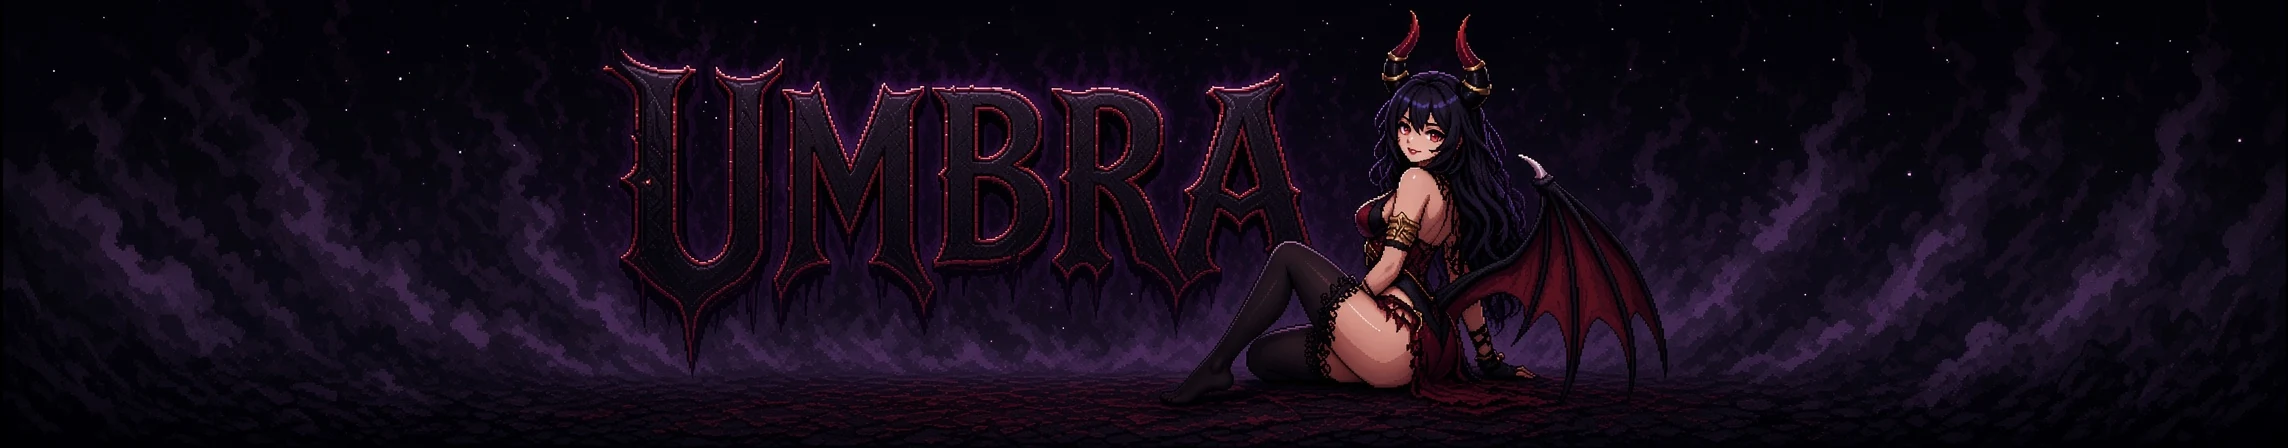
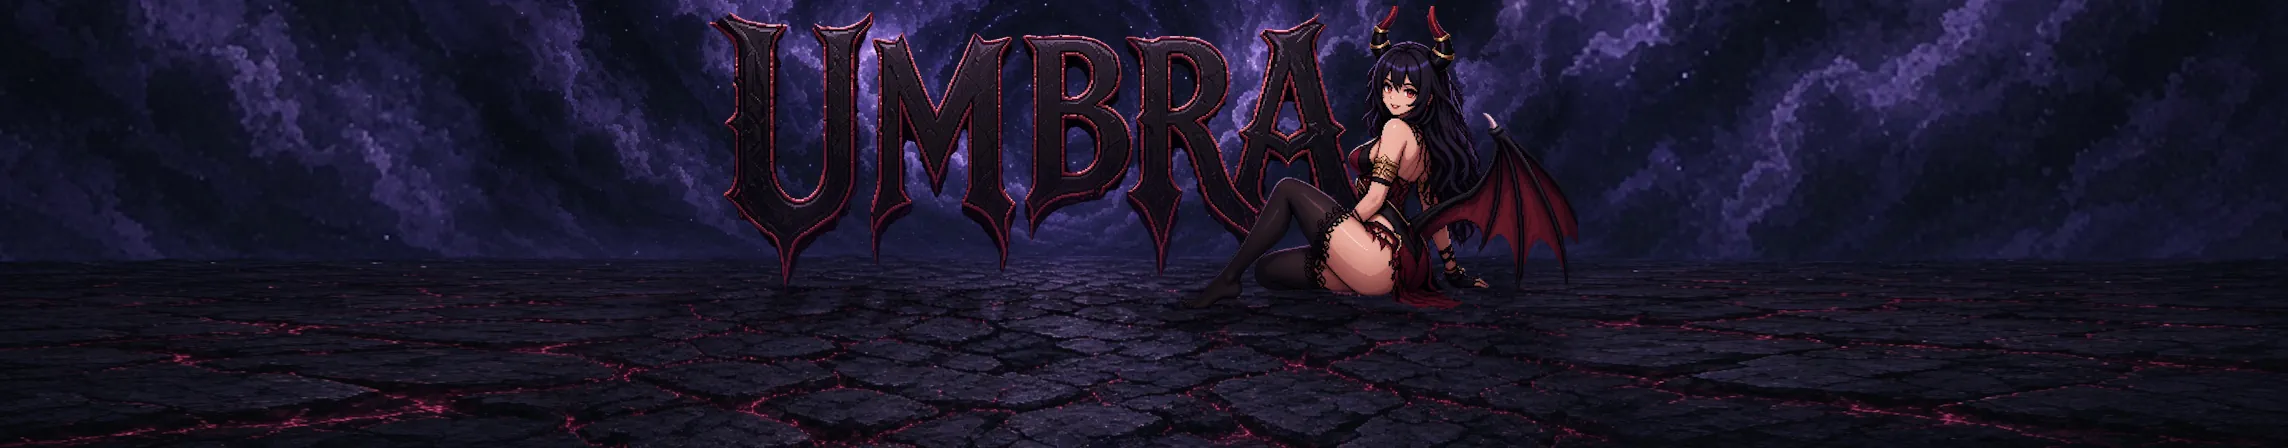
Redesign app header and add release workflow

diff --git a/src/renderer/src/components/Header.tsx b/src/renderer/src/components/Header.tsx
@@ -1,13 +1,44 @@
-import { APP_VERSION } from '@shared/constants'
 import { useLibraryStore } from '@renderer/store/libraryStore'
 import { useSettingsStore } from '@renderer/store/settingsStore'
 import { useUpdateStore } from '@renderer/store/updateStore'
 import { useUiStore } from '@renderer/store/uiStore'
 import bannerUrl from '@renderer/assets/banner.webp'
 
+/**
+ * The strip height tracks the window width instead of being a fixed pixel value, so the
+ * banner's crop stays proportionally the same at every window size. The art is 2288x448
+ * (~5.1:1), so `object-cover` always renders it at ~19.6% of the container width; a fixed
+ * height therefore squeezes the art into an ever-thinner slice as the window widens (the
+ * old fixed 200px strip had this bug too). Taking a fixed *fraction* of the width instead
+ * keeps a constant ~84% of the art in frame.
+ *
+ * The banner is authored so everything that matters lives in its top ~66%: horn tips at
+ * ~1%, wordmark letterforms ending ~40% with drips to ~52%, and the character bottoming
+ * out at ~66%. Below that is deliberately empty cracked ground — that band is the lane the
+ * control row sits on, so covering it costs nothing.
+ *
+ * At 16.4vw the wordmark clears the 46px control row with room to spare at the default
+ * 1100px width (drips land ~107px down, the row starts at 134px), and the character is
+ * fully in frame. The floor for merely keeping the wordmark clear is ~14.5vw, so there is
+ * headroom to go shorter if the header ever needs to shrink further. Clamped at both ends
+ * so it still fits the 950px minimum window width and stops growing on wide monitors.
+ */
+const STRIP_HEIGHT = 'clamp(164px, 16.4vw, 232px)'
+
+/**
+ * Anchored to the top because the banner's only expendable region is the empty ground at
+ * its bottom: cropping from anywhere else clips the horn tips, which sit ~1% down. Every
+ * pixel `object-cover` discards should come off the bottom.
+ */
+const BANNER_FOCUS = 'center top'
+
+/** Shared chrome for the controls floating on the art: readable on their own, but glassy
+ *  enough that the artwork still shows through instead of sitting behind a solid bar. */
+const FLOATING =
+  'border border-white/10 bg-bg-input/80 shadow-lg shadow-black/40 backdrop-blur-md'
+
 export default function Header(): React.JSX.Element {
-  const { dbVersion, dbUpdated, search, setSearch, viewMode, setViewMode, matches } =
-    useLibraryStore()
+  const { search, setSearch, viewMode, setViewMode } = useLibraryStore()
   const { settings, openSettings, setViewMode: persistViewMode } = useSettingsStore()
   const updateResult = useUpdateStore((s) => s.result)
   const openAbout = useUiStore((s) => s.openAbout)
@@ -18,30 +49,35 @@ export default function Header(): React.JSX.Element {
   }
 
   return (
-    <header className="border-b border-bg-card bg-bg-dark">
-      {/* Banner artwork carries the wordmark, so the app title is screen-reader only here.
-          The artwork is authored at ~5:1 to match this strip's aspect at typical window
-          widths, so object-cover crops only a few pixels off the sides and the logo and
-          character always stay fully visible. Controls sit below the art rather than on
-          top of it — a scrim dark enough to keep overlaid text legible would swallow the
-          letters. */}
-      <div className="relative h-[200px] shrink-0 overflow-hidden bg-[#06050b]">
-        <h1 className="sr-only">Umbra Game Patcher</h1>
-        <img
-          src={bannerUrl}
-          alt="Umbra"
-          className="h-full w-full object-cover"
-          style={{ objectPosition: 'center' }}
-        />
-        {/* Short fade so the art meets the controls instead of ending on a hard edge. */}
-        <div className="pointer-events-none absolute inset-x-0 bottom-0 h-10 bg-gradient-to-t from-bg-dark to-transparent" />
-      </div>
+    /* The banner art *is* the header: the controls float over its lower band on a gradient
+       scrim rather than sitting in a panel below it, which keeps the whole header to the
+       height of the artwork. Database/version details moved into the About dialog — at the
+       950px minimum window width they could not share a row with the search field. */
+    <header
+      className="relative shrink-0 overflow-hidden border-b border-bg-card/60 bg-[#06050b]"
+      style={{ height: STRIP_HEIGHT }}
+    >
+      {/* Banner artwork carries the wordmark, so the app title is screen-reader only. */}
+      <h1 className="sr-only">Umbra Game Patcher</h1>
+      <img
+        src={bannerUrl}
+        alt="Umbra"
+        className="absolute inset-0 h-full w-full object-cover"
+        style={{ objectPosition: BANNER_FOCUS }}
+      />
 
-      <div className="flex items-center justify-between gap-3 px-5 pt-0">
-        <div className="flex items-baseline gap-3">
-          <span className="text-xs text-text-dim">{APP_VERSION}</span>
+      {/* Scrim under the control row. Black rather than the old bg-dark blue so it reads as
+          the art darkening into shadow instead of a panel creeping back in. Kept light and
+          long rather than short and opaque: the controls carry their own backgrounds, so
+          this only has to seat them — a heavier scrim cuts the wordmark mid-stroke. */}
+      <div className="pointer-events-none absolute inset-x-0 bottom-0 h-[92px] bg-gradient-to-t from-black/90 via-black/40 to-transparent" />
+
+      {/* Alerts ride the upper-left corner, which is empty smoke in the artwork. Both are
+          conditional, so the corner is usually bare. */}
+      {(settings.betaAutoInstall || updateResult?.available) && (
+        <div className="absolute left-5 top-4 flex items-center gap-2">
           {settings.betaAutoInstall && (
-            <span className="rounded-full bg-danger/20 px-2 py-0.5 text-[10px] font-semibold uppercase tracking-wide text-danger">
+            <span className="rounded-full border border-danger/50 bg-black/55 px-2 py-0.5 text-[10px] font-semibold uppercase tracking-wide text-danger-hover backdrop-blur-sm">
               Beta Auto-Install on
             </span>
           )}
@@ -50,50 +86,32 @@ export default function Header(): React.JSX.Element {
               type="button"
               onClick={() => void window.patcher.openExternal(updateResult.url)}
               title="Open the release on GitHub"
-              className="rounded-full bg-accent-dim/30 px-2 py-0.5 text-[10px] font-semibold text-accent hover:bg-accent-dim/50"
+              className="rounded-full border border-accent/50 bg-black/55 px-2 py-0.5 text-[10px] font-semibold text-accent backdrop-blur-sm hover:bg-accent-dim/60 hover:text-text-bright"
             >
               🔔 v{updateResult.latestVersion} available
             </button>
           )}
         </div>
-        <div className="flex items-center gap-3">
-          <span className="text-xs text-text-dim">
-            Database generated {dbVersion} · {dbUpdated ? 'Updated' : 'Up to date'} ·{' '}
-            {matches.length} game{matches.length === 1 ? '' : 's'} with patches
-          </span>
-          <button
-            type="button"
-            onClick={openAbout}
-            title="About"
-            className="rounded-md border border-bg-card px-2 py-1 text-sm text-text-dim hover:bg-bg-card hover:text-text-bright"
-          >
-            ℹ
-          </button>
-          <button
-            type="button"
-            onClick={openSettings}
-            title="Settings"
-            className="rounded-md border border-bg-card px-2 py-1 text-sm text-text-dim hover:bg-bg-card hover:text-text-bright"
-          >
-            ⚙
-          </button>
-        </div>
-      </div>
+      )}
 
-      <div className="flex items-center gap-3 px-5 py-3">
+      <div className="absolute inset-x-0 bottom-0 flex items-center gap-2.5 px-5 pb-3">
+        {/* The row floats, but the input itself stays near-opaque — typed text over the
+            artwork is the one thing here that has to stay unambiguously readable. */}
         <input
           type="text"
           value={search}
           onChange={(e) => setSearch(e.target.value)}
           placeholder="Search your games…"
-          className="flex-1 rounded-md border border-bg-card bg-bg-input px-3 py-1.5 text-sm text-text placeholder:text-text-dim focus:border-accent focus:outline-none"
+          className={`min-w-0 flex-1 rounded-md px-3 py-1.5 text-sm text-text-bright placeholder:text-text-dim focus:border-accent focus:outline-none ${FLOATING}`}
         />
-        <div className="flex overflow-hidden rounded-md border border-bg-card">
+        <div className={`flex shrink-0 overflow-hidden rounded-md ${FLOATING}`}>
           <button
             type="button"
             onClick={() => changeViewMode('list')}
             className={`px-3 py-1.5 text-sm ${
-              viewMode === 'list' ? 'bg-accent-dim text-text-bright' : 'bg-bg-input text-text-dim'
+              viewMode === 'list'
+                ? 'bg-accent-dim text-text-bright'
+                : 'text-text-dim hover:text-text'
             }`}
           >
             List
@@ -102,12 +120,30 @@ export default function Header(): React.JSX.Element {
             type="button"
             onClick={() => changeViewMode('grid')}
             className={`px-3 py-1.5 text-sm ${
-              viewMode === 'grid' ? 'bg-accent-dim text-text-bright' : 'bg-bg-input text-text-dim'
+              viewMode === 'grid'
+                ? 'bg-accent-dim text-text-bright'
+                : 'text-text-dim hover:text-text'
             }`}
           >
             Grid
           </button>
         </div>
+        <button
+          type="button"
+          onClick={openAbout}
+          title="About, and database status"
+          className={`shrink-0 rounded-md px-2.5 py-1.5 text-sm text-text hover:text-text-bright ${FLOATING}`}
+        >
+          ℹ
+        </button>
+        <button
+          type="button"
+          onClick={openSettings}
+          title="Settings"
+          className={`shrink-0 rounded-md px-2.5 py-1.5 text-sm text-text hover:text-text-bright ${FLOATING}`}
+        >
+          ⚙
+        </button>
       </div>
     </header>
   )

diff --git a/src/renderer/src/components/AboutModal.tsx b/src/renderer/src/components/AboutModal.tsx
@@ -1,8 +1,10 @@
 import { APP_VERSION, GITHUB_REPO_URL, NUKIGE_SITE_URL } from '@shared/constants'
+import { useLibraryStore } from '@renderer/store/libraryStore'
 import { useUiStore } from '@renderer/store/uiStore'
 
 export default function AboutModal(): React.JSX.Element | null {
   const { aboutOpen, closeAbout } = useUiStore()
+  const { dbVersion, dbUpdated, matches } = useLibraryStore()
 
   if (!aboutOpen) return null
 
@@ -38,6 +40,26 @@ export default function AboutModal(): React.JSX.Element | null {
         <p className="mt-3 text-xs text-text-dim">
           Patch data comes from the Nukige Reborn archive.
         </p>
+
+        {/* Database status lives here rather than in the header: the header now floats its
+            controls over the banner art, and this text could not share that single row at
+            the 950px minimum window width. */}
+        <dl className="mt-4 rounded-md border border-bg-card bg-bg-input p-3 text-left text-xs">
+          <div className="flex items-baseline justify-between gap-3">
+            <dt className="text-text-dim">Database generated</dt>
+            <dd className="text-text">{dbVersion}</dd>
+          </div>
+          <div className="mt-1.5 flex items-baseline justify-between gap-3">
+            <dt className="text-text-dim">Status</dt>
+            <dd className={dbUpdated ? 'text-success-dim' : 'text-text'}>
+              {dbUpdated ? 'Updated' : 'Up to date'}
+            </dd>
+          </div>
+          <div className="mt-1.5 flex items-baseline justify-between gap-3">
+            <dt className="text-text-dim">Games with patches</dt>
+            <dd className="text-text">{matches.length}</dd>
+          </div>
+        </dl>
 
         <div className="mt-5 flex flex-col gap-2">
           <button

diff --git a/electron.vite.config.ts b/electron.vite.config.ts
@@ -1,9 +1,24 @@
+import { readFileSync } from 'fs'
 import { resolve } from 'path'
 import { defineConfig, externalizeDepsPlugin } from 'electron-vite'
 import react from '@vitejs/plugin-react'
 
+// package.json is the single source of truth for the app version. It is read here (rather
+// than imported, which would pull the whole manifest — dependency list included — into the
+// renderer bundle) and substituted into `__APP_VERSION__` at build time, which is what
+// src/shared/constants.ts exports as APP_VERSION. All three targets need the define: main
+// and preload for the update check, renderer for the About dialog.
+// Resolved against cwd, matching how the aliases below already resolve their paths —
+// electron-vite always runs from the project root. Avoids __dirname, which is not
+// available in an ESM config ("type": "module" in package.json).
+const appVersion: string = JSON.parse(
+  readFileSync(resolve('package.json'), 'utf8')
+).version
+const versionDefine = { __APP_VERSION__: JSON.stringify(appVersion) }
+
 export default defineConfig({
   main: {
+    define: versionDefine,
     plugins: [externalizeDepsPlugin()],
     resolve: {
       alias: {
@@ -23,6 +38,7 @@ export default defineConfig({
     }
   },
   preload: {
+    define: versionDefine,
     plugins: [externalizeDepsPlugin()],
     resolve: {
       alias: {
@@ -43,6 +59,7 @@ export default defineConfig({
     }
   },
   renderer: {
+    define: versionDefine,
     resolve: {
       alias: {
         '@renderer': resolve('src/renderer/src'),

diff --git a/src/shared/globals.d.ts b/src/shared/globals.d.ts
@@ -1,0 +1,10 @@
+/**
+ * Injected at build time by electron.vite.config.ts, read straight out of package.json's
+ * `version` field. package.json is the single source of truth for the app version: it is
+ * what electron-builder stamps onto the installer, and what the release workflow checks
+ * the git tag against, so APP_VERSION must derive from it rather than be a second copy
+ * that can silently drift. A drifted copy is not a cosmetic bug — checkUpdate.ts compares
+ * APP_VERSION against the latest GitHub release tag, so a stale value makes the app
+ * permanently advertise an update to users who are already running it.
+ */
+declare const __APP_VERSION__: string

diff --git a/src/shared/constants.ts b/src/shared/constants.ts
@@ -1,4 +1,6 @@
-export const APP_VERSION = '1.0.0'
+/** Comes from package.json via a build-time define — see src/shared/globals.d.ts. Bump
+ *  the version in package.json only; there is deliberately no second copy here. */
+export const APP_VERSION = __APP_VERSION__
 
 export const DB_URL =
   'https://raw.githubusercontent.com/d4rksp4rt4n/Umbra/refs/heads/main/database/patches_database.json'
